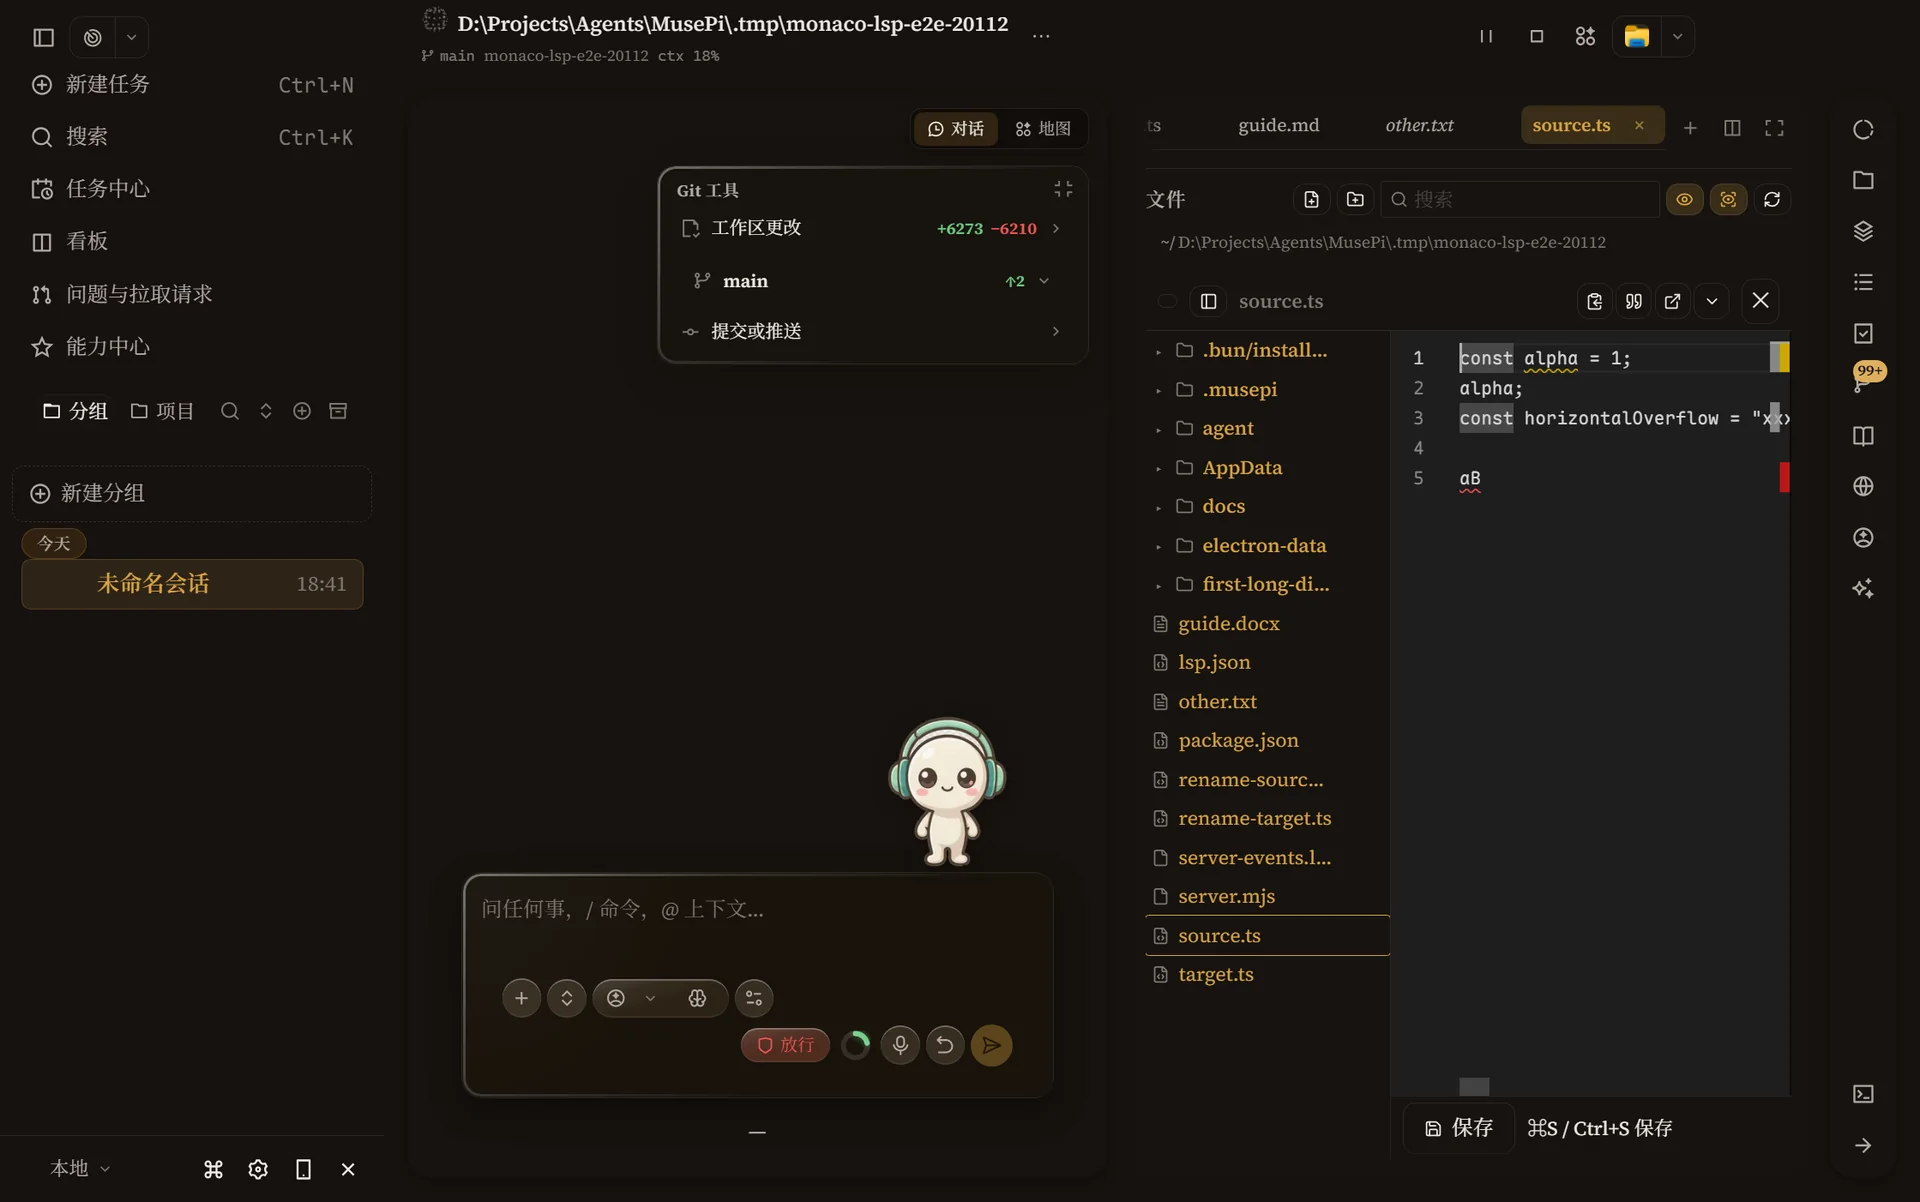
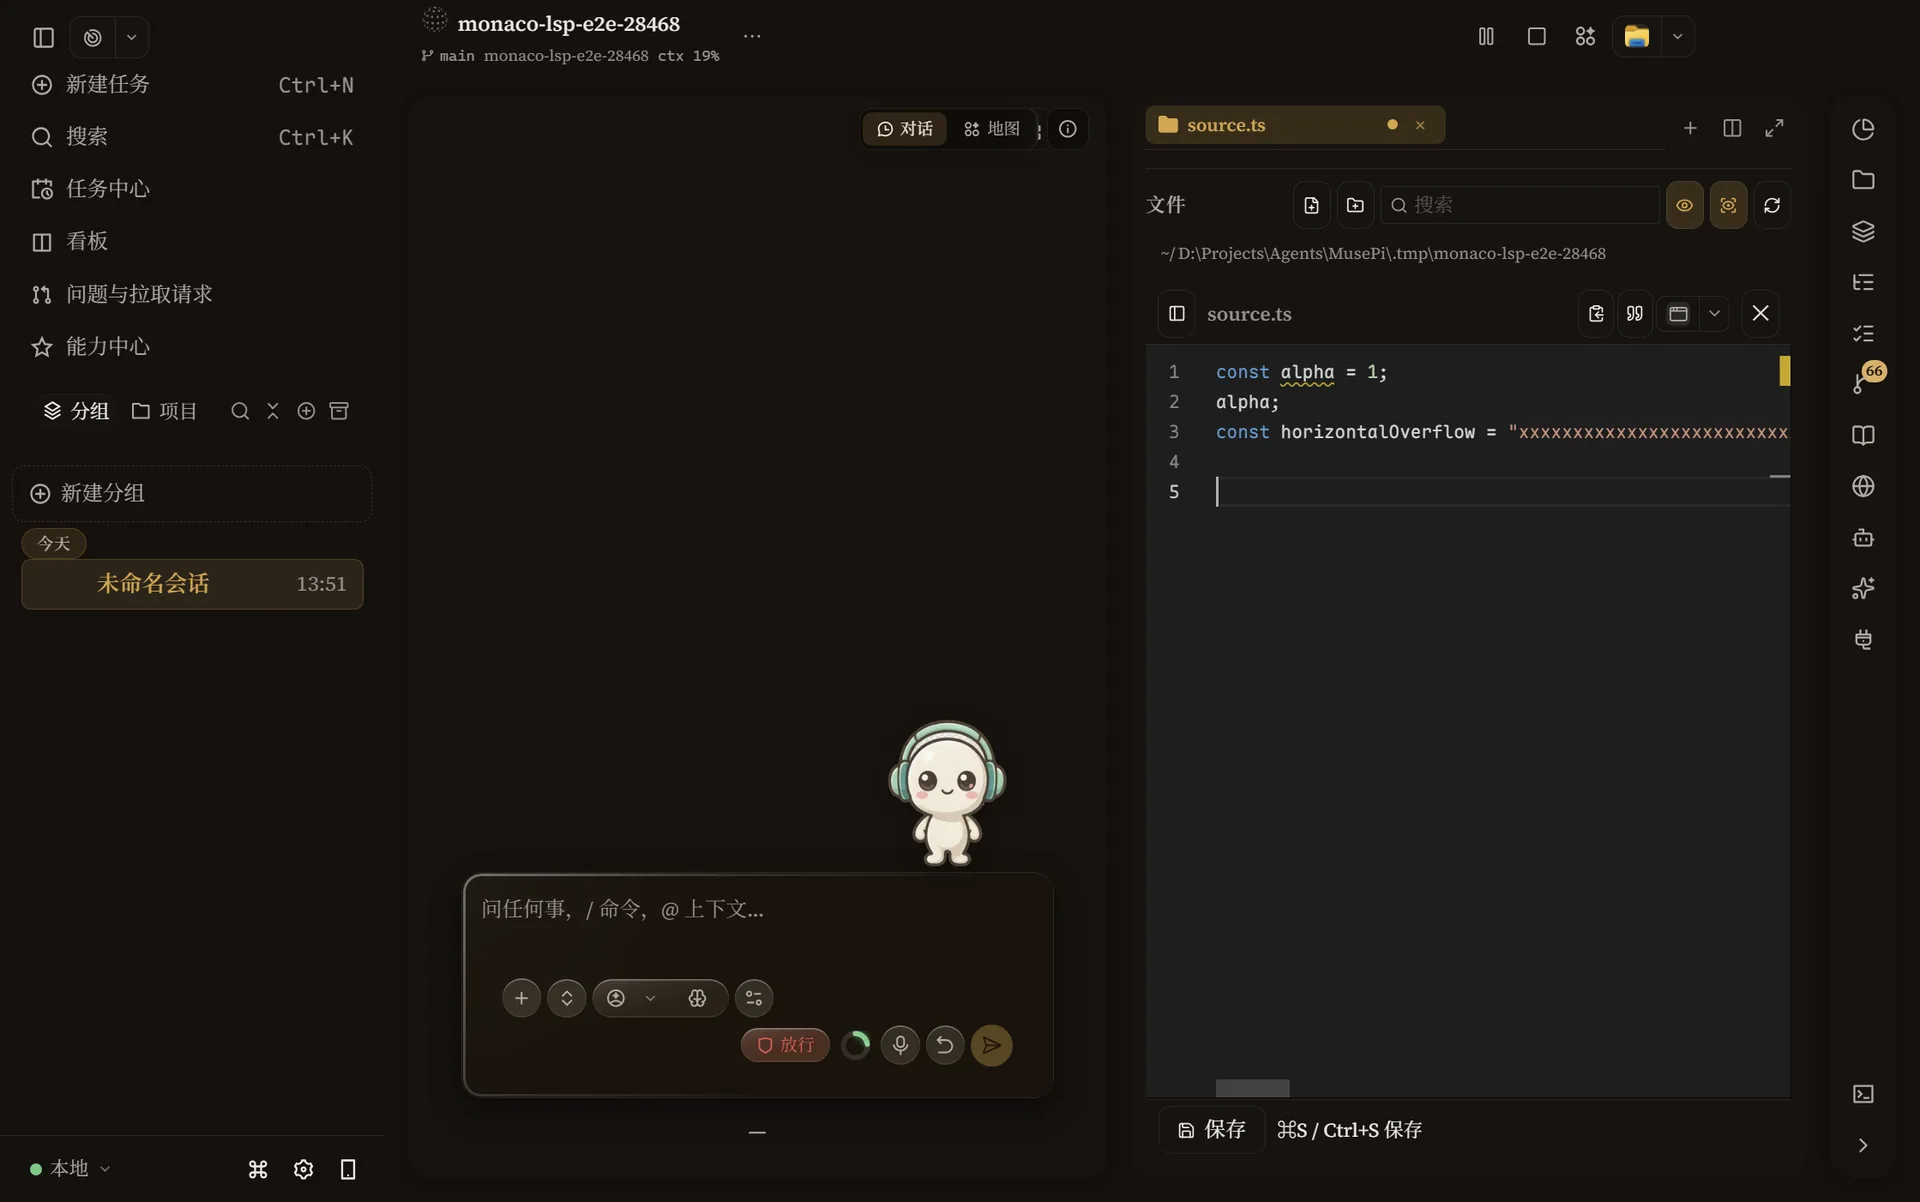
chore(site): refresh real app screenshots
Welcome shot recaptured against an isolated daemon with a demo session, so the site no longer ships a frame with real session names. The capture script can now target a non-default daemon port and seeds the matching GUI URL; the manifest records .webp names.

diff --git a/web/index.html b/web/index.html
@@ -312,7 +312,7 @@
             <figcaption class="mp-shot-note" data-i18n="preview.shot.note">真实界面截图 —— 暗色品牌主题下的欢迎工作台：输入框、快捷建议与会话导航。</figcaption>
           </figure>
           <figure class="mp-shot mp-reveal">
-            <img src="./assets/shots/app-editor.webp" alt="MusePi 文件工作区：项目文件树、文件标签页和可编辑的 TypeScript 代码" data-i18n-aria="preview.editor.aria" width="1920" height="1202" loading="lazy" decoding="async" />
+            <img src="./assets/shots/app-editor.webp" alt="MusePi 文件工作区：文件标签页、路径导航和可编辑的 TypeScript 代码" data-i18n-aria="preview.editor.aria" width="1920" height="1202" loading="lazy" decoding="async" />
             <figcaption class="mp-shot-note" data-i18n="preview.editor.note">真实界面截图 —— 在同一工作台浏览项目、切换文件并直接修改代码。</figcaption>
           </figure>
         </div>

diff --git a/web/i18n.js b/web/i18n.js
@@ -54,7 +54,7 @@
     "preview.shot.note":
       "Real interface capture — the welcome workspace in the brand dark theme: composer, quick suggestions and session navigation.",
     "preview.editor.aria":
-      "MusePi file workspace with a project tree, file tabs and an editable TypeScript file",
+      "MusePi file workspace with file tabs, path navigation and an editable TypeScript file",
     "preview.editor.note":
       "Real interface capture — browse the project, switch files and edit code in the same workspace.",
     "preview.more": "More real captures",
